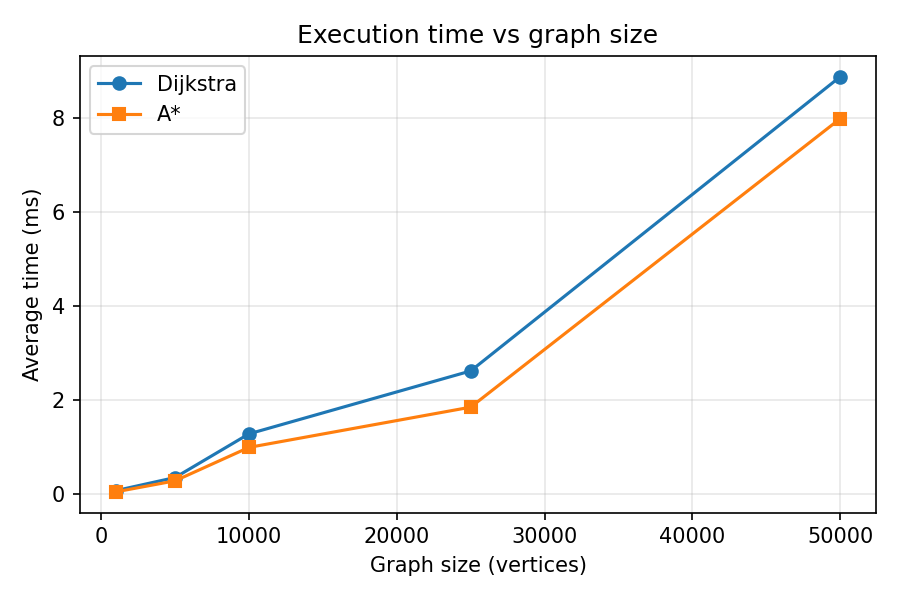
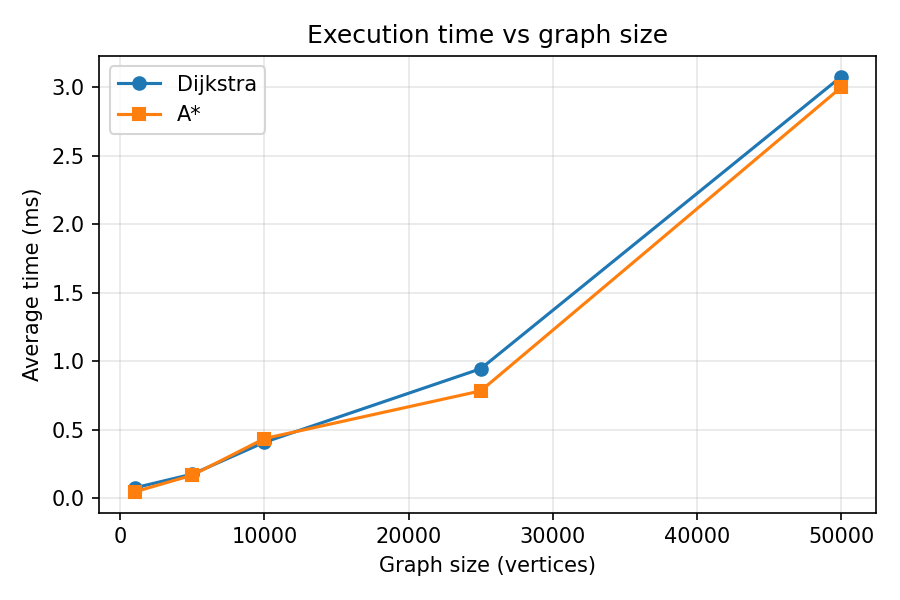
fixed unit problem

diff --git a/results/summary.md b/results/summary.md
@@ -2,11 +2,11 @@
 |-------------:|:------------|--------:|-----------:|------------------------:|---------------------:|----------------:|------------------:|
 |         1000 | Dijkstra    |       5 |  101501.80 |                  382.00 |               861.00 |            0.08 |             25.80 |
 |         1000 | A*          |       5 |  101501.80 |                  173.80 |               397.80 |            0.05 |             25.80 |
-|         5000 | Dijkstra    |       5 |   67854.20 |                 1612.40 |              4058.00 |            0.35 |             54.00 |
-|         5000 | A*          |       5 |   67854.20 |                  964.60 |              2451.00 |            0.28 |             54.00 |
-|        10000 | Dijkstra    |       5 |  199976.60 |                 4303.80 |             10231.20 |            1.28 |             80.60 |
-|        10000 | A*          |       5 |  199976.60 |                 3074.00 |              7352.40 |            1.00 |             80.60 |
-|        25000 | Dijkstra    |       5 |  248740.60 |                11364.00 |             27107.60 |            2.62 |            126.20 |
-|        25000 | A*          |       5 |  248740.60 |                 6159.20 |             14772.60 |            1.85 |            126.20 |
-|        50000 | Dijkstra    |       5 |  683912.00 |                34515.00 |             82382.40 |            8.88 |            277.20 |
-|        50000 | A*          |       5 |  683912.00 |                22782.80 |             54652.80 |            7.99 |            277.20 |
+|         5000 | Dijkstra    |       5 |   67854.20 |                 1612.40 |              4058.00 |            0.18 |             54.00 |
+|         5000 | A*          |       5 |   67854.20 |                  964.60 |              2451.00 |            0.17 |             54.00 |
+|        10000 | Dijkstra    |       5 |  199976.60 |                 4303.80 |             10231.20 |            0.41 |             80.60 |
+|        10000 | A*          |       5 |  199976.60 |                 3074.00 |              7352.40 |            0.43 |             80.60 |
+|        25000 | Dijkstra    |       5 |  248740.60 |                11364.00 |             27107.60 |            0.94 |            126.20 |
+|        25000 | A*          |       5 |  248740.60 |                 6159.20 |             14772.60 |            0.78 |            126.20 |
+|        50000 | Dijkstra    |       5 |  683912.00 |                34515.00 |             82382.40 |            3.08 |            277.20 |
+|        50000 | A*          |       5 |  683912.00 |                22782.80 |             54652.80 |            3.00 |            277.20 |
